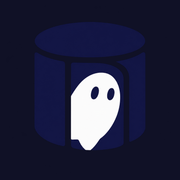
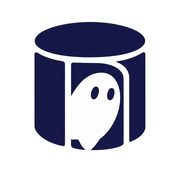
chore: - 아이콘 이미지 배경 추가 - 앱 설명 수정

diff --git a/src/components/install-guide-button.tsx b/src/components/install-guide-button.tsx
@@ -1,0 +1,113 @@
+"use client";
+
+import { ChevronRight, Download, Share, SquarePlus } from "lucide-react";
+import { useEffect, useState } from "react";
+
+import { BottomSheet } from "@/components/bottom-sheet";
+
+type BeforeInstallPromptEvent = Event & {
+  prompt: () => Promise<void>;
+  userChoice: Promise<{ outcome: "accepted" | "dismissed" }>;
+};
+
+const isStandaloneDisplay = () =>
+  window.matchMedia("(display-mode: standalone)").matches ||
+  (window.navigator as unknown as { standalone?: boolean }).standalone === true;
+
+export const InstallGuideButton = () => {
+  const [open, setOpen] = useState(false);
+  const [isIOS, setIsIOS] = useState(false);
+  const [isStandalone, setIsStandalone] = useState(false);
+  const [deferredPrompt, setDeferredPrompt] =
+    useState<BeforeInstallPromptEvent | null>(null);
+
+  useEffect(() => {
+    setIsIOS(
+      /iPad|iPhone|iPod/.test(navigator.userAgent) &&
+        !("MSStream" in window),
+    );
+    setIsStandalone(isStandaloneDisplay());
+
+    const handleBeforeInstallPrompt = (event: Event) => {
+      event.preventDefault();
+      setDeferredPrompt(event as BeforeInstallPromptEvent);
+    };
+
+    window.addEventListener("beforeinstallprompt", handleBeforeInstallPrompt);
+    return () =>
+      window.removeEventListener(
+        "beforeinstallprompt",
+        handleBeforeInstallPrompt,
+      );
+  }, []);
+
+  if (isStandalone) return null;
+
+  const handleClick = async () => {
+    if (deferredPrompt) {
+      await deferredPrompt.prompt();
+      const { outcome } = await deferredPrompt.userChoice;
+      if (outcome === "accepted") setDeferredPrompt(null);
+      return;
+    }
+
+    setOpen(true);
+  };
+
+  return (
+    <>
+      <button
+        type="button"
+        onClick={handleClick}
+        className="border-border bg-surface hover:border-primary/30 flex w-full items-center gap-3 rounded-xl border p-3 text-left shadow-sm transition-all hover:shadow"
+      >
+        <span className="bg-point/40 flex size-9 shrink-0 items-center justify-center rounded-full">
+          <Download className="text-primary size-4" />
+        </span>
+        <span className="text-text flex-1 text-sm font-bold">앱 설치하기</span>
+        <ChevronRight className="text-text-muted size-4" />
+      </button>
+
+      <BottomSheet open={open} onOpenChange={setOpen} title="앱 설치 방법">
+        {isIOS ? (
+          <ol className="flex flex-col gap-3">
+            <GuideStep index={1}>
+              하단 메뉴에서 공유 버튼(
+              <Share className="text-text mx-1 inline size-4" />)을 탭하세요
+            </GuideStep>
+            <GuideStep index={2}>
+              메뉴에서 &quot;홈 화면에 추가&quot;(
+              <SquarePlus className="text-text mx-1 inline size-4" />)를
+              선택하세요
+            </GuideStep>
+            <GuideStep index={3}>오른쪽 위 &quot;추가&quot;를 눌러 완료하세요</GuideStep>
+          </ol>
+        ) : (
+          <ol className="flex flex-col gap-3">
+            <GuideStep index={1}>브라우저 메뉴(⋮ 또는 …)를 여세요</GuideStep>
+            <GuideStep index={2}>
+              &quot;앱 설치&quot; 또는 &quot;홈 화면에 추가&quot;를 선택하세요
+            </GuideStep>
+          </ol>
+        )}
+      </BottomSheet>
+    </>
+  );
+};
+
+const GuideStep = ({
+  index,
+  children,
+}: {
+  index: number;
+  children: React.ReactNode;
+}) => (
+  <li className="flex items-start gap-2.5">
+    <span className="bg-point/40 text-primary flex size-5 shrink-0 items-center justify-center rounded-full text-xs font-bold">
+      {index}
+    </span>
+    <span className="text-text pt-0.5 text-sm leading-relaxed">
+      {children}
+    </span>
+  </li>
+);

diff --git a/src/app/manifest.ts b/src/app/manifest.ts
@@ -1,25 +1,25 @@
-import type { MetadataRoute } from 'next'
- 
+import type { MetadataRoute } from "next";
+
 export default function manifest(): MetadataRoute.Manifest {
   return {
-    name: '회전문',
-    short_name: '회전문',
-    description: '공연 관련 정보를 제공하는 웹 애플리케이션',
-    start_url: '/',
-    display: 'standalone',
-    background_color: '#23285e',
-    theme_color: '#23285e',
+    name: "회전문",
+    short_name: "회전문",
+    description: "티켓팅 전에 확인하는 뮤지컬/연극 캐스팅 정보",
+    start_url: "/",
+    display: "standalone",
+    background_color: "#23285e",
+    theme_color: "#23285e",
     icons: [
       {
-        src: '/icon-192x192.png',
-        sizes: '192x192',
-        type: 'image/png',
+        src: "/icon-192x192.png",
+        sizes: "192x192",
+        type: "image/png",
       },
       {
-        src: '/icon-512x512.png',
-        sizes: '512x512',
-        type: 'image/png',
+        src: "/icon-512x512.png",
+        sizes: "512x512",
+        type: "image/png",
       },
     ],
-  }
+  };
 }

diff --git a/src/app/layout.tsx b/src/app/layout.tsx
@@ -9,7 +9,7 @@ import "./globals.css";
 
 export const metadata: Metadata = {
   title: "회전문 | Hoejeonmun",
-  description: "공연 관련 정보를 제공하는 웹 애플리케이션",
+  description: "티켓팅 전에 확인하는 뮤지컬/연극 캐스팅 정보",
   appleWebApp: {
     capable: true,
     statusBarStyle: "default",
@@ -28,7 +28,7 @@ export default function RootLayout({
 }>) {
   return (
     <html lang="ko">
-      <Analytics/>
+      <Analytics />
       <body className="bg-primary">
         <SerwistProvider swUrl="/serwist/sw.js">
           {children}
